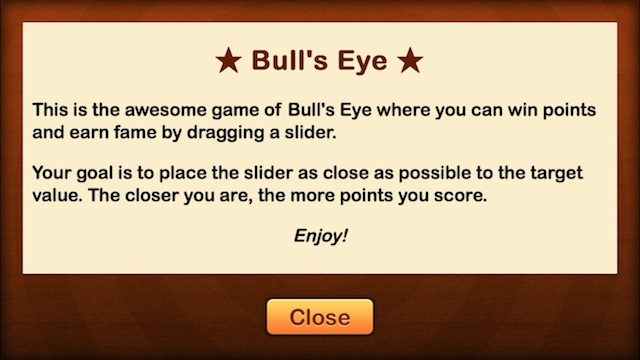
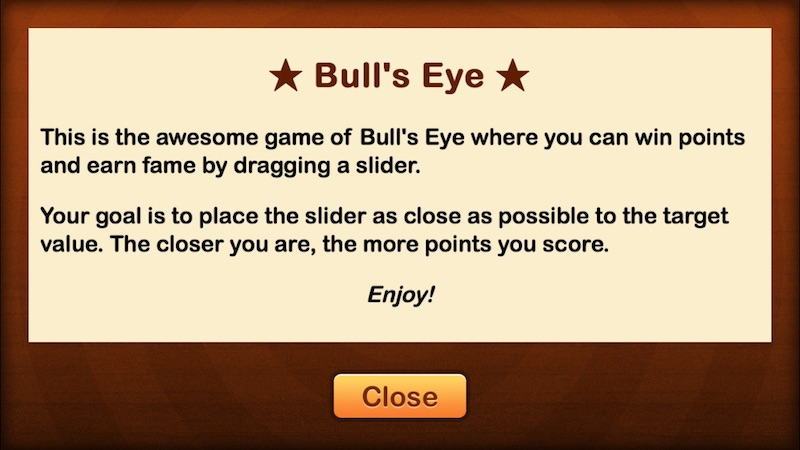
Change image size

diff --git a/README.md b/README.md
@@ -1,11 +1,11 @@
 # Bull's Eye 
 
-This is an iOS game where you win points by dragging a slider as possible to a target value. The closer you are, the more points you score.  
+This is an iOS game where you win points by dragging a slider as close as possible to a target value. The closer you are, the more points you score.  
 
 ## Installing
 
-To get the game running, you will need to import the project into Xcode and then run a simulation of the game. Alternatively, you can
-connect your iphone or ipad and run the game there through Xcode for a more realistic experience. 
+To get the game running, you will need to import the project into Xcode and then run a simulation of the game. You can also
+connect your iphone or ipad and run the game on it through Xcode. 
 
 ## Screenshots
 
@@ -125,6 +125,3 @@ be in the middle with a current value of 50 to represent this. The labels are up
 
 This project is licensed under the MIT License - see the [LICENSE.md](LICENSE.md) file for details
 
-## Acknowledgments
-
-* Marvel Comics 
